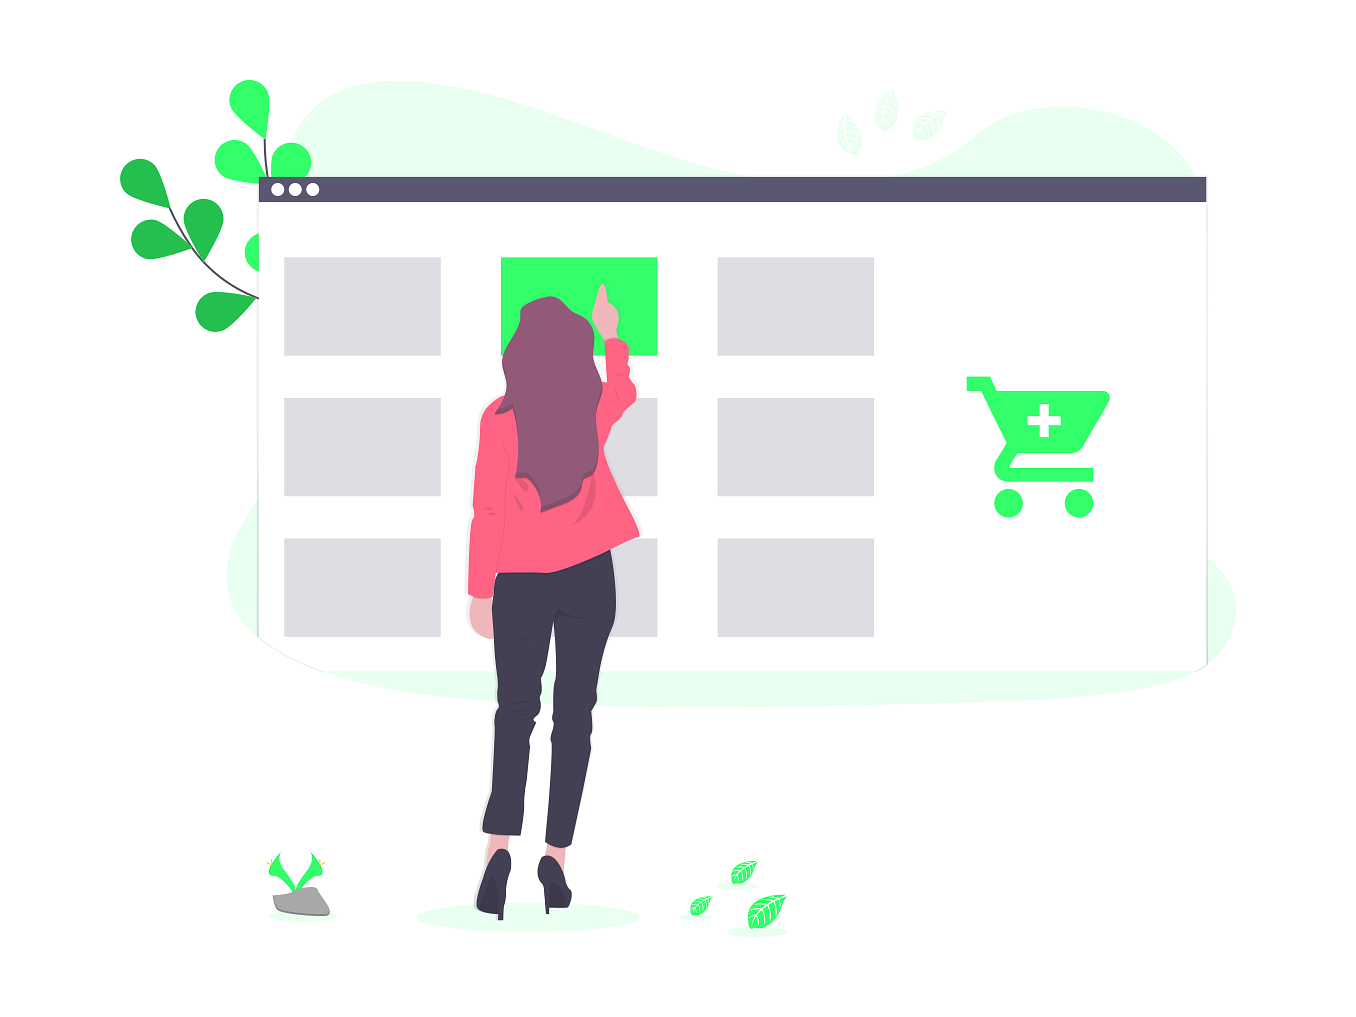
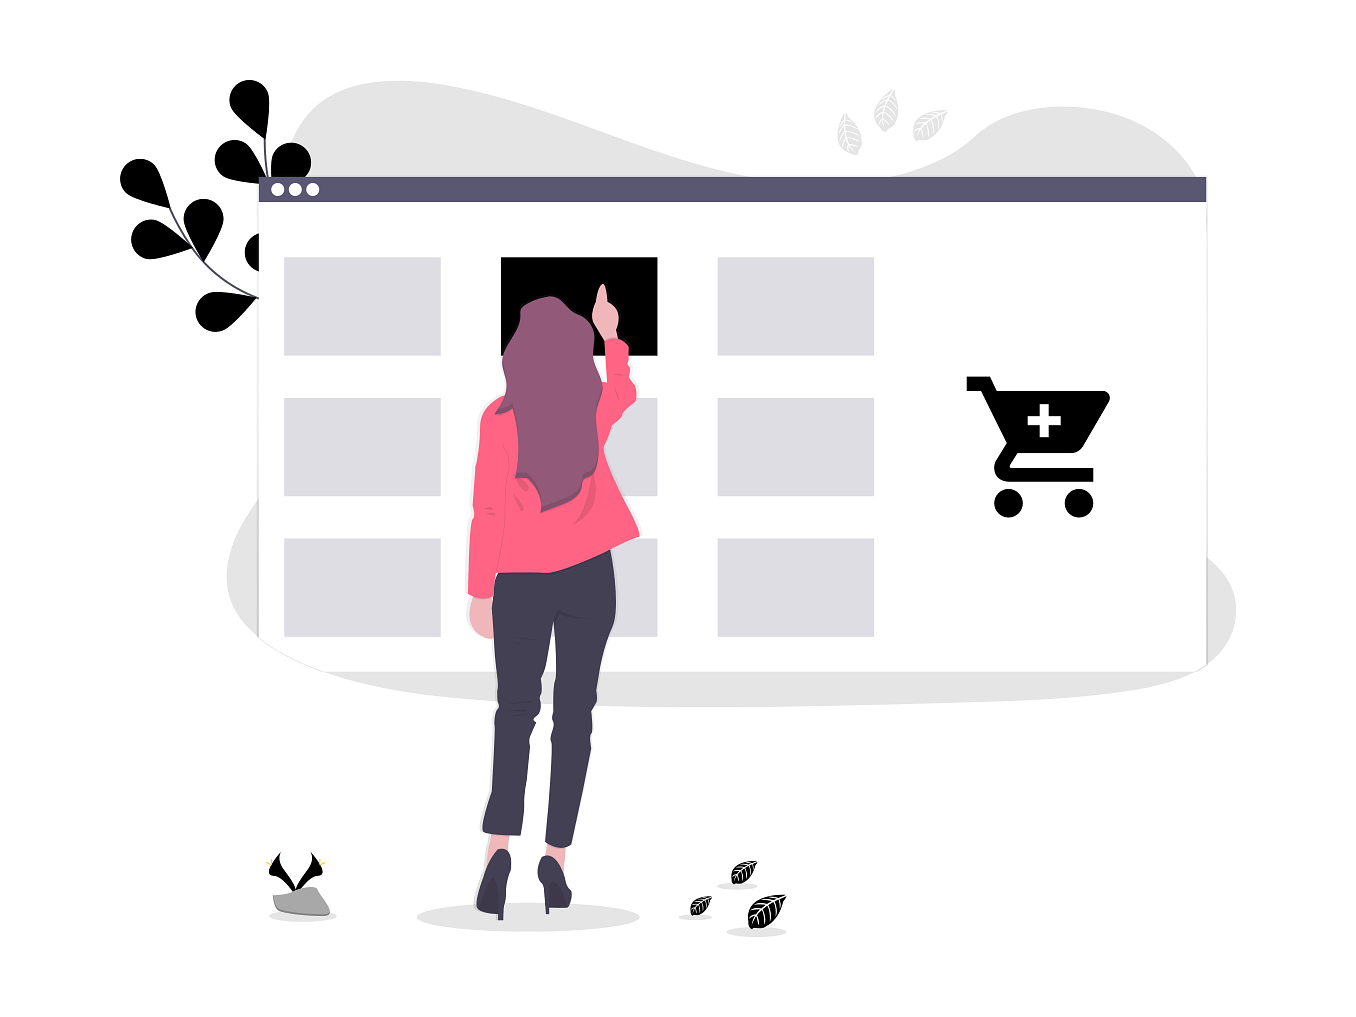
fixed brands and color design

diff --git a/src/components/brands.js b/src/components/brands.js
@@ -9,6 +9,16 @@ import img3 from '../images/supreme2.png';
 import img4 from '../images/kaws.png';
 
 import banner2 from '../images/banner6.png';
+import img5 from '../images/offwhiteshoes.png';
+import img6 from '../images/travisshoes.png';
+import img7 from '../images/sacaishoes.png';
+import img8 from '../images/drakeshoes.png';
+
+import img9 from '../images/logo1.png';
+import img10 from '../images/logo2.png';
+import img11 from '../images/logo3.png';
+import img12 from '../images/logo4.png';
+import img13 from '../images/logo5.png';
 
 
 const Mainbrands = styled.div`
@@ -49,13 +59,24 @@ const Containercloth = styled.div`
   flex-direction: column;
 `
 
+const Brandslogo = styled.div`
+  display: flex;
+  justify-content: space-between;
+  margin: 50px;
+`
+
 class Brands extends Component {
   render(){
     return(
       <Mainbrands>
         <h1>Brands.</h1>
-        <div className="text-brands">
-        </div>
+        <Brandslogo>
+          <Image src={img9} alt="logo" className="img-logo logo1" />
+          <Image src={img10} alt="logo" className="img-logo" />
+          <Image src={img11} alt="logo" className="img-logo" />
+          <Image src={img12} alt="logo" className="img-logo" />
+          <Image src={img13} alt="logo" className="img-logo" />
+        </Brandslogo>
         <div className="first-brands">
           <Imagesupreme style={{ backgroundImage: `linear-gradient(rgba(0,0,0,0.4),rgba(0,0,0,0.4)), url(${banner})` }}>
             <div className="container-text">
@@ -82,18 +103,18 @@ class Brands extends Component {
           <Sneakers>
             <Containercloth>
               <div className="box-clothing">
-                <Image src={img1} alt="bape" className="img-brands" />
-                <Image src={img2} alt="off-white" className="img-brands" />
+                <Image src={img5} alt="bape" className="img-brands" />
+                <Image src={img6} alt="off-white" className="img-brands" />
               </div>
               <div className="box-clothing">
-                <Image src={img3} alt="supreme" className="img-brands" />
-                <Image src={img4} alt="kaws" className="img-brands" />
+                <Image src={img7} alt="supreme" className="img-brands" />
+                <Image src={img8} alt="kaws" className="img-brands" />
               </div>
             </Containercloth>
           </Sneakers>
           <Imagesupreme style={{ backgroundImage: `linear-gradient(rgba(0,0,0,0.4),rgba(0,0,0,0.4)), url(${banner2})` }}>
             <div className="container-text">
-              <h2>Buy Exclusive Sneakers.</h2>
+              <h2>Sell Exclusive Sneakers.</h2>
               <button type="button" className="btn-brands-section">
                 <p>Shop</p>
               </button>

diff --git a/src/style/_home.scss b/src/style/_home.scss
@@ -6,8 +6,11 @@
   justify-content: center;
   h1{
     color: $secondColor;
-    font-size: 30px;
+    font-size: 40px;
     transition: all 0.5s;
+    letter-spacing: 3px;
+    text-shadow: 1px 1px 3px rgba(0,0,0,0.2);
+    font-weight: bold;
   }
   h1:hover{
     color: $primaryColor;
@@ -15,8 +18,22 @@
   }
 }
 
+.description{
+  font-weight: lighter;
+  font-size: 14px;
+  margin-bottom: 30px;
+}
+
 .info{
   display: flex;
+  p{
+    margin: 10px;
+    font-weight: bold;
+    font-size: 24px;
+  }
+}
+.fix-margin{
+  margin-left: 0px !important;
 }
 
 .img-home{
@@ -49,8 +66,12 @@
   }
   i{
     font-size: 20px;
-    color:$primaryColor;
+    color:$secondColor;
     transition: all 0.5s;
+  }
+  i:hover{
+    transform: translateY(-4px);
+    color: $primaryColor;
   }
 }
 

diff --git a/src/style/_buttons.scss b/src/style/_buttons.scss
@@ -3,6 +3,8 @@
   p{
     color: white;
     font-weight: bold;
+    letter-spacing: 1px;
+    text-shadow: 1px 1px 3px rgba(0,0,0,0.2);
   }
   background-color: $primaryColor;
   border-radius: 5px;
@@ -25,10 +27,12 @@
 
 .btn-brands-section{
   padding: 0px 25px;
-  background-color: $primaryColor;
+  background-color: $secondColor;
   p{
-    color: white;
+    color: $primaryColor;
     font-weight: bold;
+    letter-spacing: 1px;
+    text-shadow: 1px 1px 3px rgba(0,0,0,0.2);
   }
   border-radius: 5px;
   border: 0px solid white;
@@ -37,9 +41,9 @@
 }
 
 .btn-brands-section:hover{
-  background-color: $secondColor;
+  background-color: $primaryColor;
   p{
-    color: $primaryColor;
+    color: white;
   }
   border-radius: 5px;
   border: 0px solid white;

diff --git a/src/components/home.js b/src/components/home.js
@@ -52,11 +52,11 @@ class Home extends Component {
               <div className="container-home">
                 <h1>Dixit Stock</h1>
                   <div className="info">
-                    <p>Buy.</p>
+                    <p class="fix-margin">Buy.</p>
                     <p>Sell.</p>
                     <p>Trade.</p>
                   </div>
-                <p>
+                <p class="description">
                   Sed eu pharetra elit. Duis pulvinar cursus ornare. Aliquam nulla tellus, consequat et nisl sit amet, suscipit gravida diam. Praesent nulla velit, dictum vitae sollicitudin at, egestas sed nisi.
                 </p>
                 <button type="button" className="btn-first-section">

diff --git a/src/style/_brands.scss b/src/style/_brands.scss
@@ -1,13 +1,18 @@
+.img-logo{
+  width: 90px;
+  height: 60px;
+}
+
+.logo1{
+  width: 114px;
+}
+
 .container-text{
   h2{
     color: white;
     text-shadow: 1px 1px 3px rgba(0,0,0,0.2);
     font-size: 24px;
     font-weight: bold;
-  }
-  p{
-    color: white;
-    opacity: 0.8;
   }
 }
 
@@ -25,6 +30,7 @@
 
 .box-clothing{
   display: flex;
+  justify-content: space-around;
 }
 
 .img-brands{
@@ -34,12 +40,15 @@
 }
 
 .sc-bZQynM h1{
-  color: $primaryColor;
+  color: $secondColor;
   transition: all 0.5s;
+  letter-spacing: 3px;
+  text-shadow: 1px 1px 3px rgba(0,0,0,0.2);
+  font-weight: bold;
 }
 
 .sc-bZQynM h1:hover{
-  color: $secondColor;
+  color: $primaryColor;
   transform: translateY(-3px);
 }
 

diff --git a/src/style/_service.scss b/src/style/_service.scss
@@ -16,11 +16,14 @@
 }
 
 .sc-EHOje h1{
-  color: $primaryColor;
+  color: $secondColor;
   transition: all 0.5s;
+  letter-spacing: 3px;
+  text-shadow: 1px 1px 3px rgba(0,0,0,0.2);
+  font-weight: bold;
 }
 
 .sc-EHOje h1:hover{
-  color: $secondColor;
+  color: $primaryColor;
   transform: translateY(-3px);
 }

diff --git a/src/style/App.scss b/src/style/App.scss
@@ -1,7 +1,8 @@
-$primaryColor: black;
-$secondColor: #32ff6a;
+$primaryColor: #000000;
+$secondColor: #e0bb20;
 
 @import "home.scss";
 @import "buttons.scss";
 @import "service.scss";
 @import "brands.scss";
+
